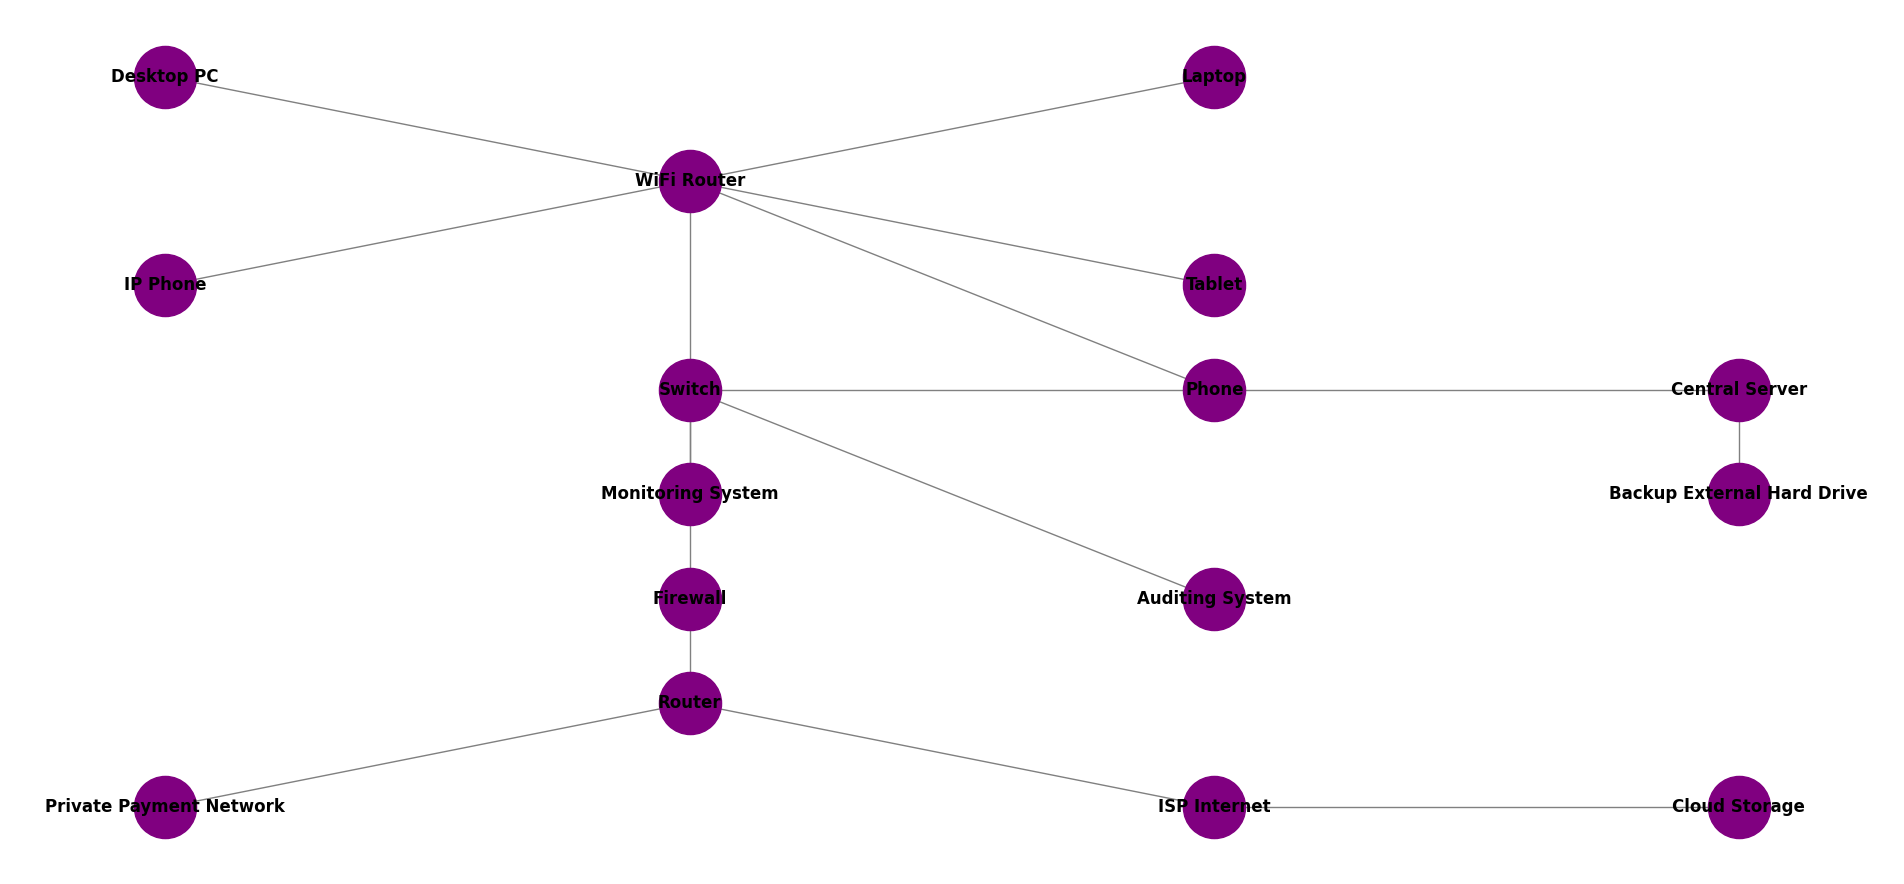
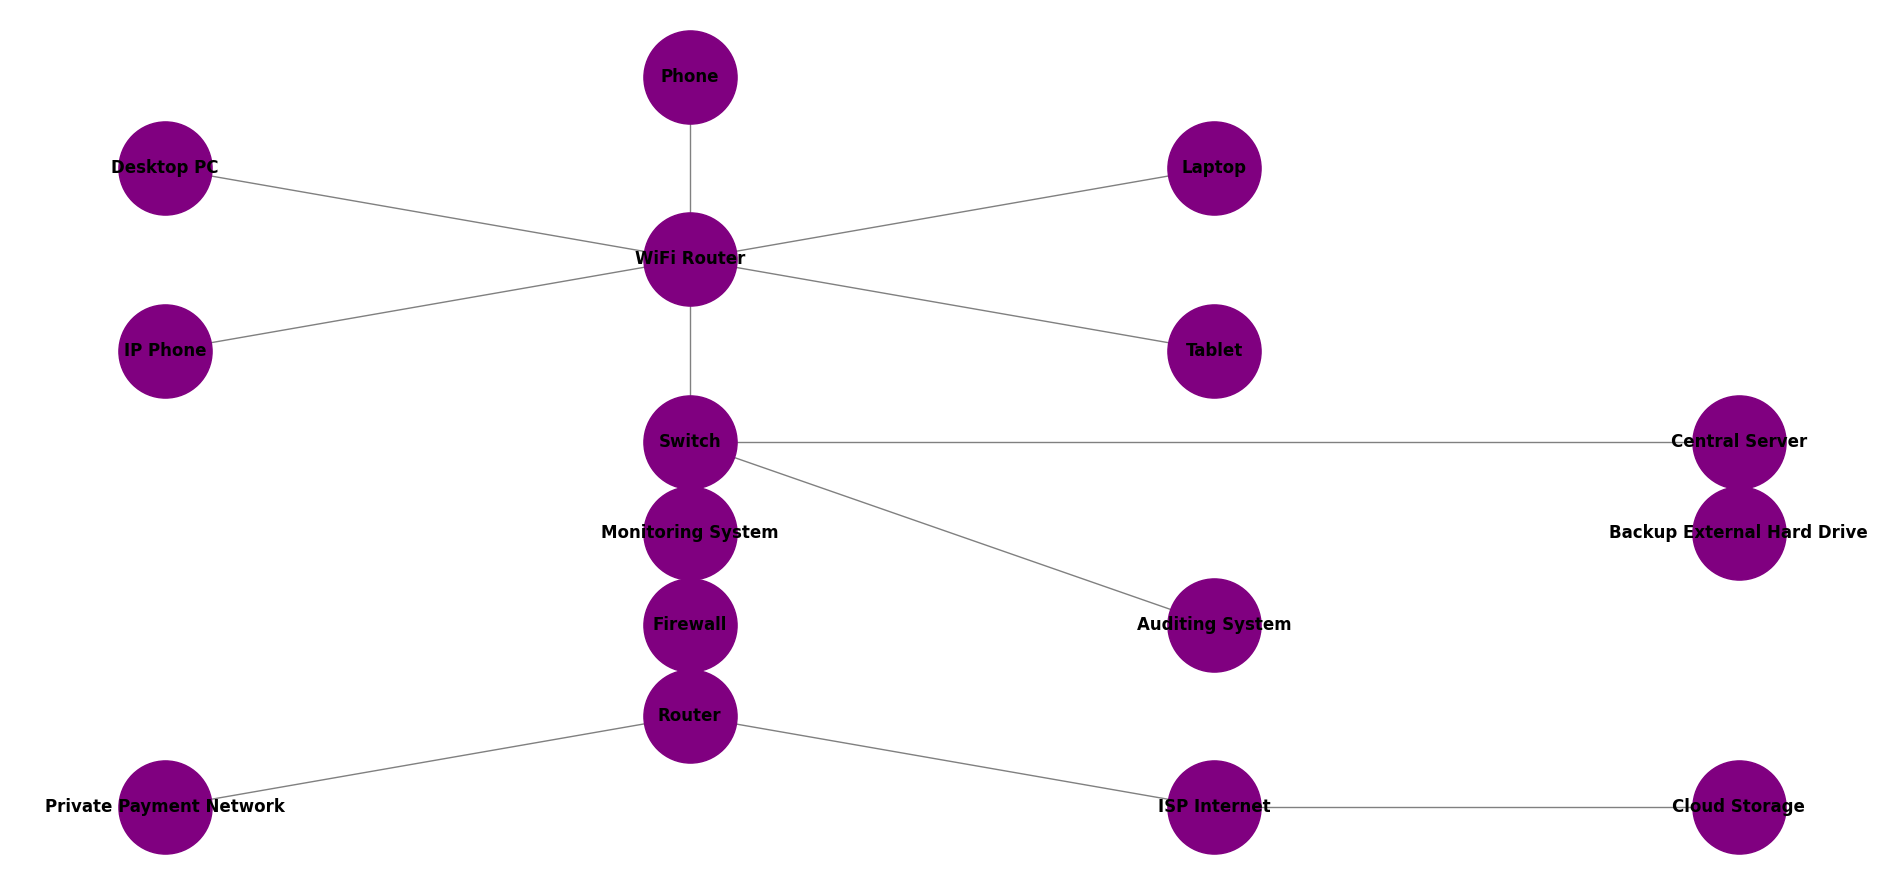
fix: move phone position

diff --git a/flowcharts/network_topology/full_scale_mapping_update.py b/flowcharts/network_topology/full_scale_mapping_update.py
@@ -7,7 +7,7 @@ nodes = [
     ("Desktop PC", {"pos": (0, 9)}),
     ("Laptop", {"pos": (2, 9)}),
     ("Tablet", {"pos": (2, 7)}),
-    ("Phone", {"pos": (2, 6)}),
+    ("Phone", {"pos": (1, 10)}),
     ("IP Phone", {"pos": (0, 7)}),
     ("Switch", {"pos": (1, 6)}),
     ("Firewall", {"pos": (1, 4)}),
